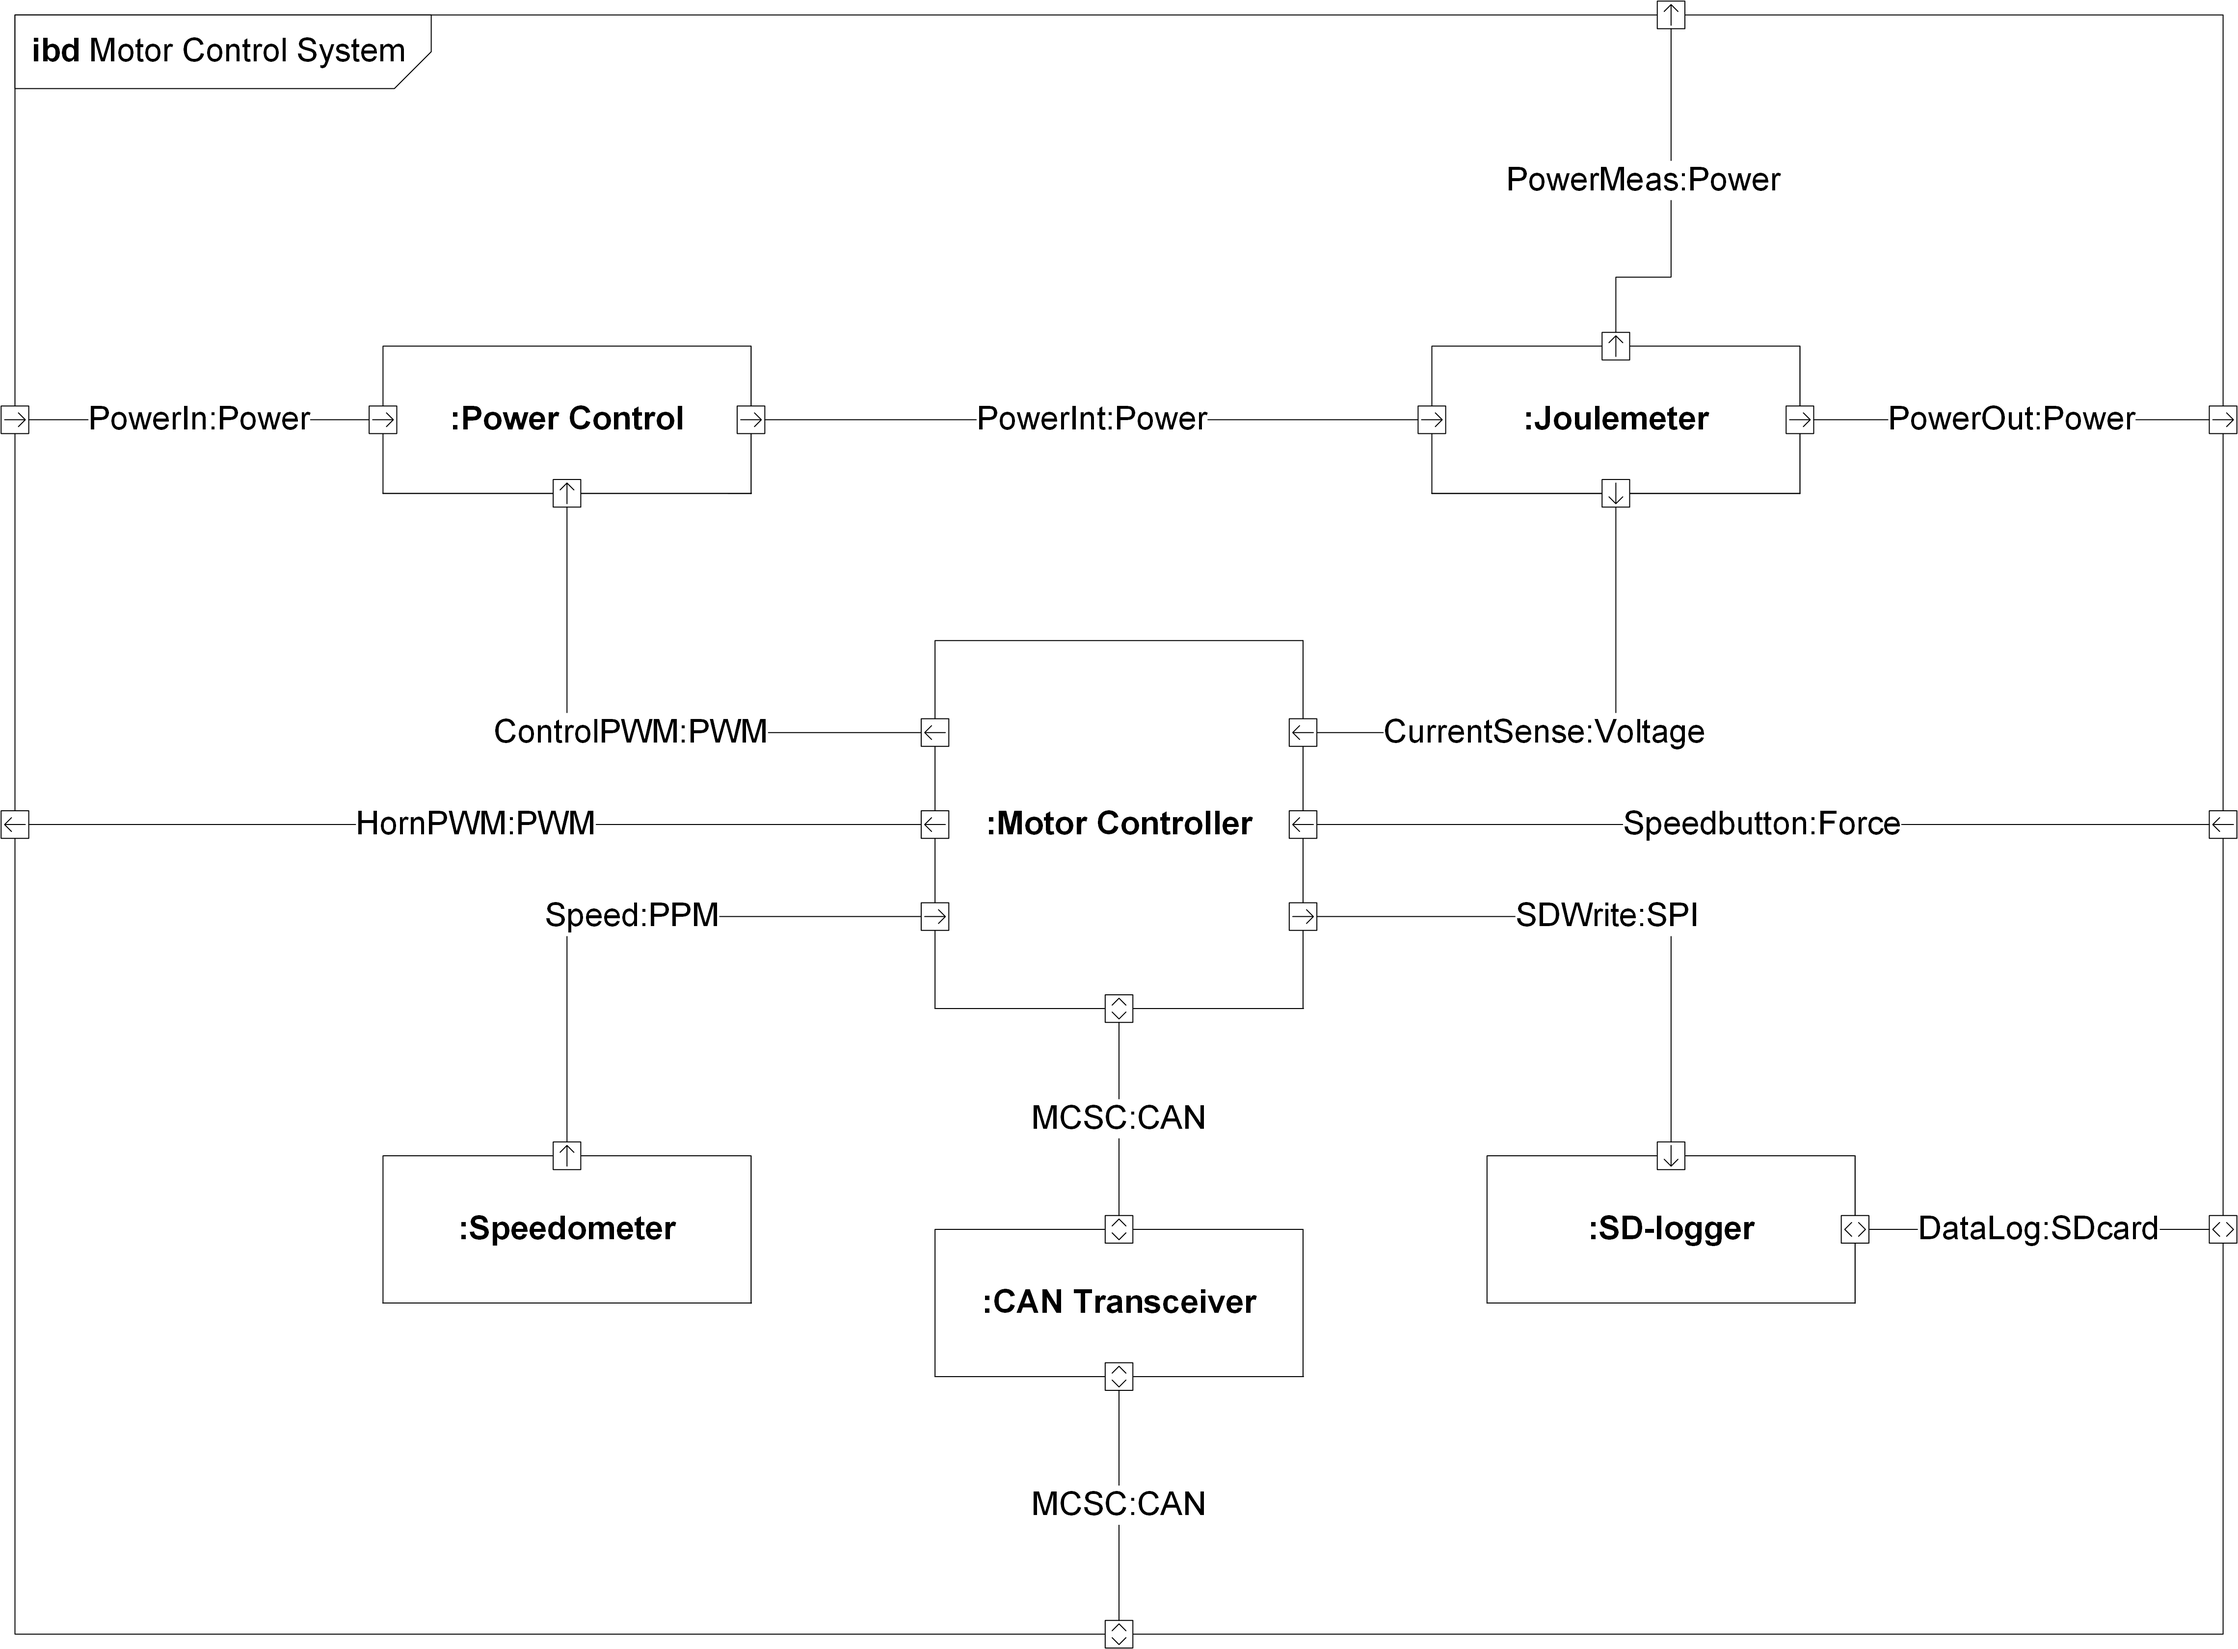
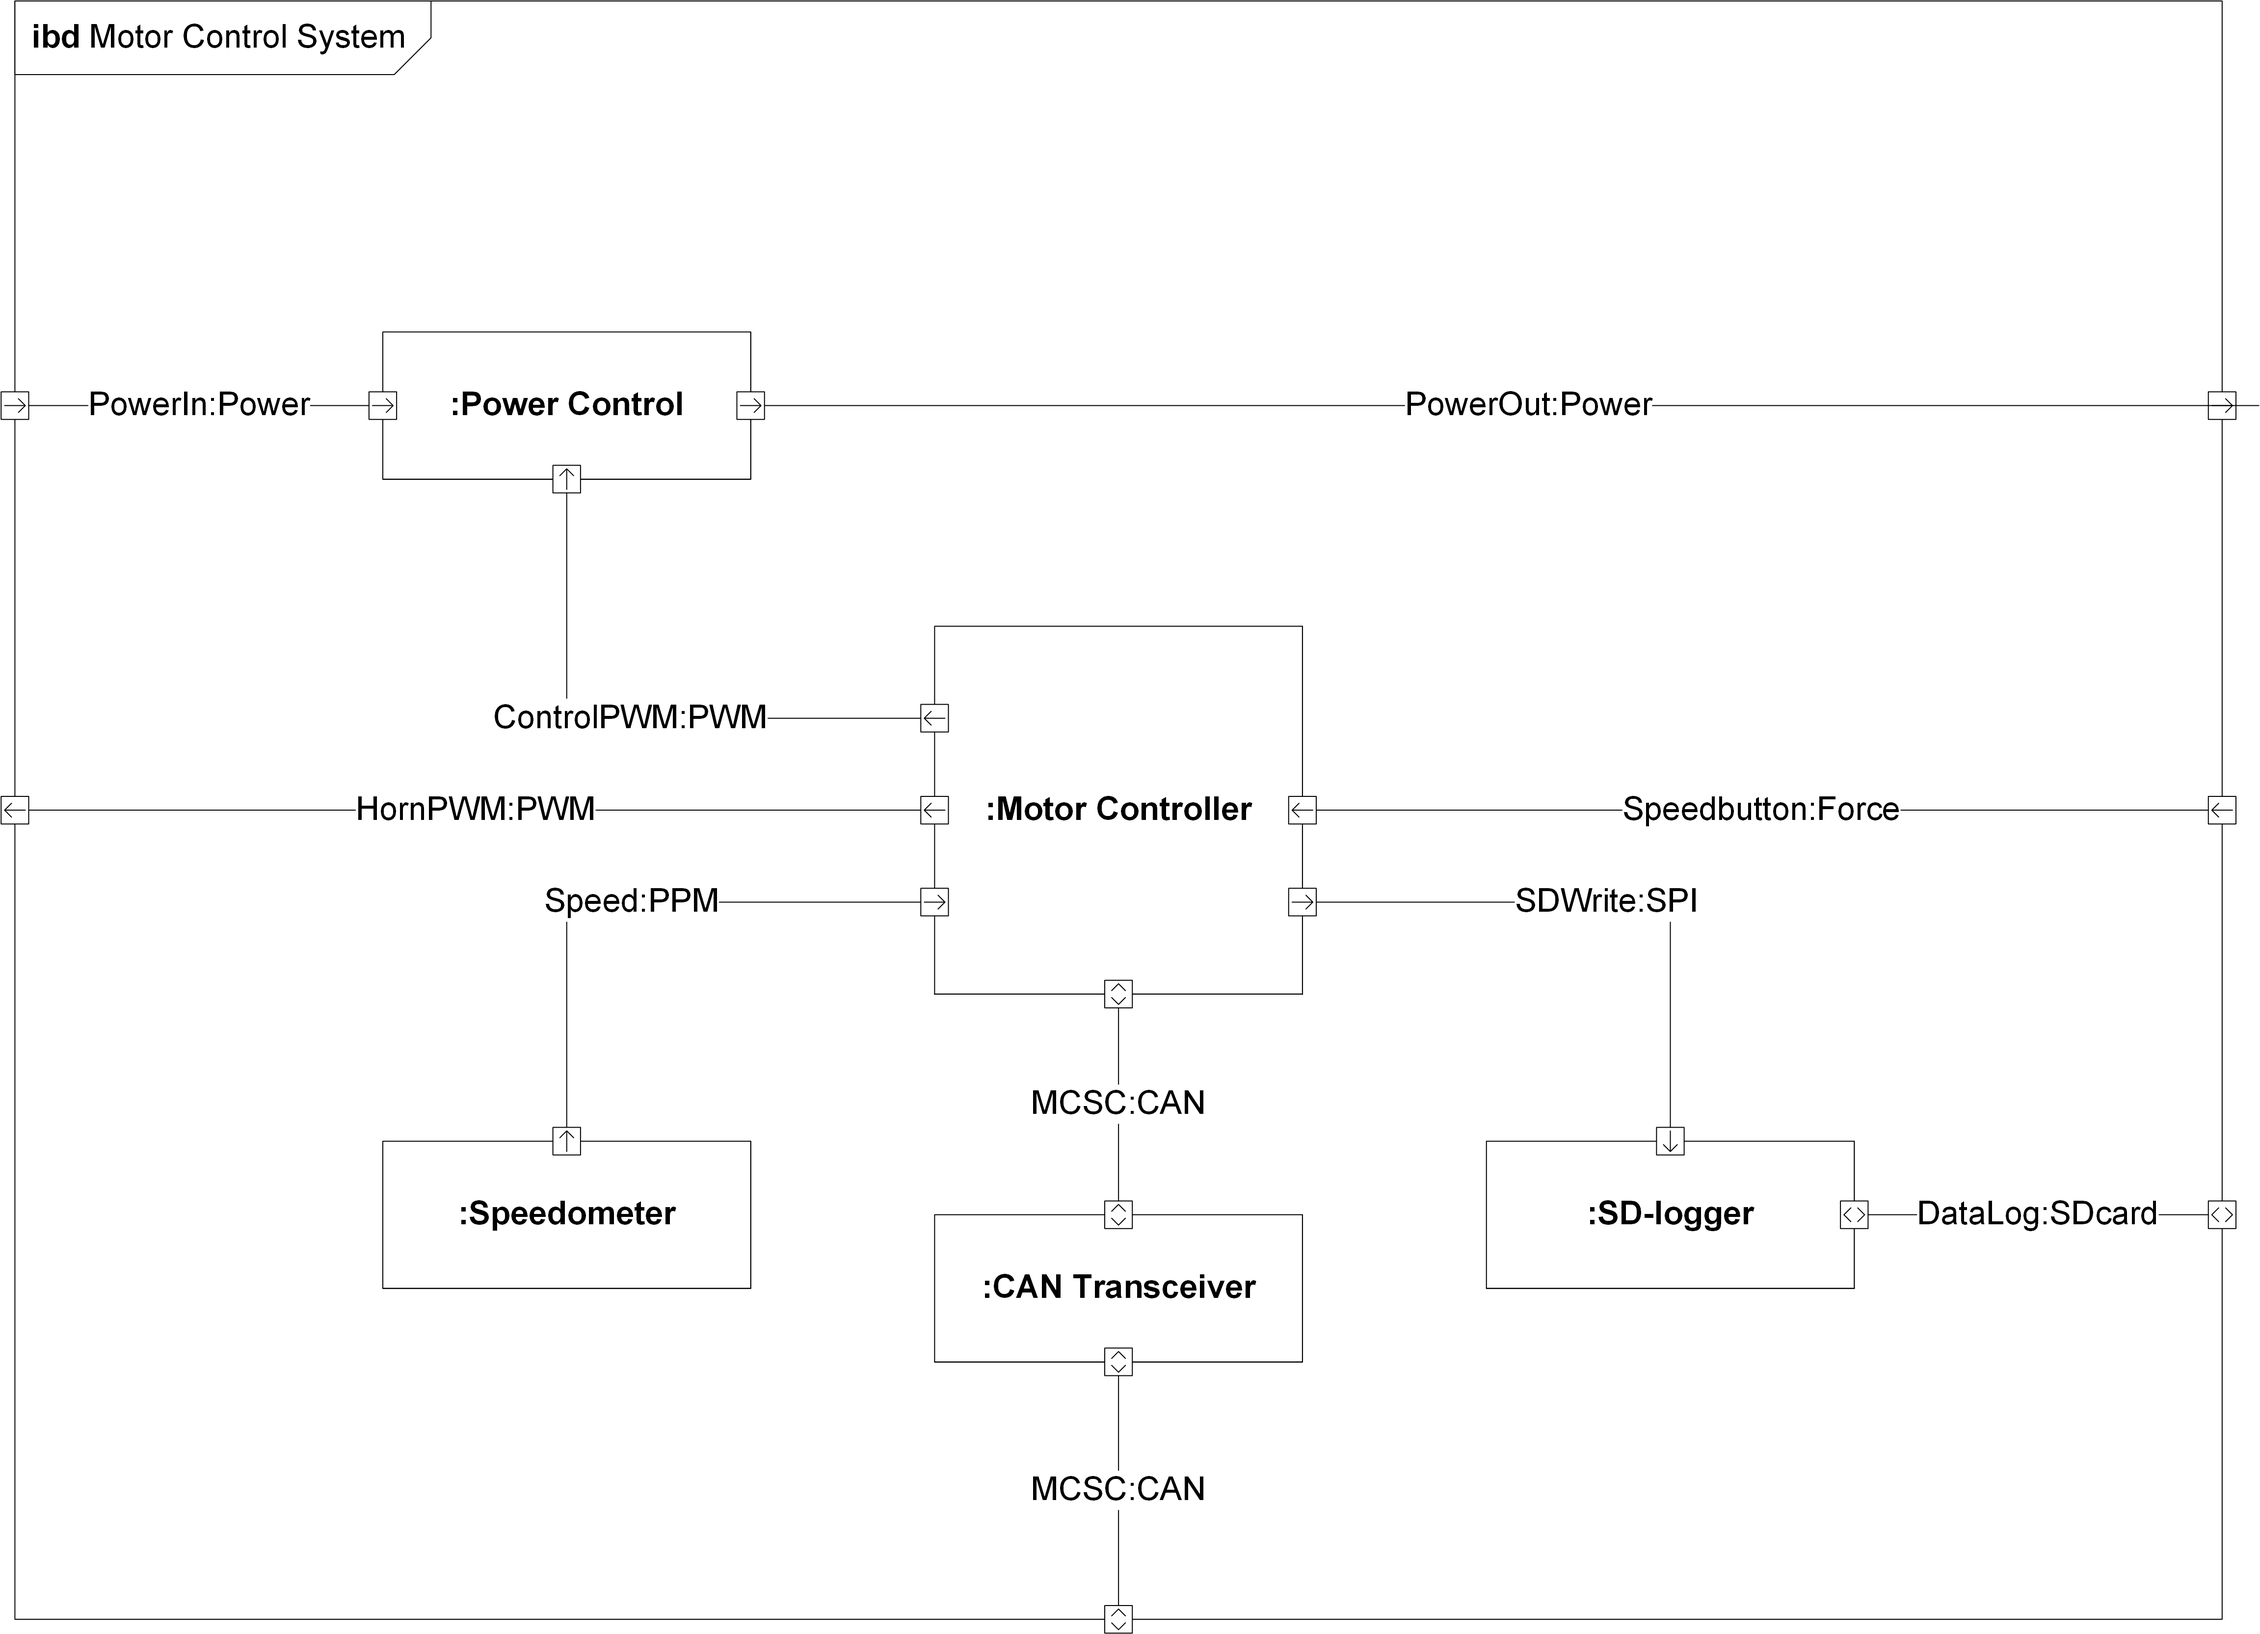
Signal Description MCS

diff --git a/Latex/Documentation_AU2/Architecture/IBD_AU2_MCS.tex b/Latex/Documentation_AU2/Architecture/IBD_AU2_MCS.tex
@@ -1,6 +1,6 @@
 \section{Internal Block Diagram - MCS}
 As with the Battery Management System, the Motor Control System (MCS) is too complex to be represented propely on a IBD along with the rest of the systems. The complexity has instead been visualized on a seperate Internal Block Diagram. The result is seen below.
-\fxnote{Opdater med HornOn + signalbeskrivelse - JOnathan}
+
 \begin{figure}[H]
 	\centering
 	\includegraphics[width=1\linewidth]{Architecture/Diagrams/IBD_MCS}
@@ -20,20 +20,23 @@ Block interface description:
 	Direction: [External] $\rightarrow$ [Every Block]\\
 	Description: Power supply to the systems.
 	\item \textbf{HornPWM:PWM}\\
-	Direction: [x] $\rightarrow$ [y]\\
-	Description:
+	Direction: [Motor Controller] $\rightarrow$ [External]\\
+	Description: Sends out a square wave signal to supply the loudspeaker with an input.
 	\item \textbf{PowerIn:Power}\\
-	Direction: [x] $\rightarrow$ [y]\\
-	Description:
-	\item \textbf{PowerMeas:Power}\\
-	Direction: [x] $\rightarrow$ [y]\\
-	Description:
+	Direction: [External] $\rightarrow$ [Power Control]\\
+	Description: Power coming from the batteries to supply the motor.
 	\item \textbf{PowerOut:Power}\\
-	Direction: [x] $\rightarrow$ [y]\\
-	Description:
+	Direction: [Power Control] $\rightarrow$ [External]\\
+	Description: Power to supply the motor.
 	\item \textbf{MCSC:CAN}\\
-	Direction: [x] $\rightarrow$ [y]\\
-	Description:
+	Direction: [CAN Transceiver] $\rightarrow$ [External]\\
+	Description: CAN connection to receive variables from BMS and to send to computer.
+	\item \textbf{Speedbutton:Force}\\
+	Direction: [External] $\rightarrow$ [Motor Controller]\\
+	Description: Button to control the driving algorithm.
+	\item \textbf{DataLog:SDcard}\\
+	Direction: [SD-logger] $\leftrightarrow$ [External]\\
+	Description: Button to control the driving algorithm.
 \end{itemize}
 
 \textbf{Block :Power Control}\\
@@ -42,21 +45,17 @@ Block interface description:
 	\item \textbf{SupplyMCS:Voltage}\\
 	Direction: [External] $\rightarrow$ [Power Control]\\
 	Description: Power supply to the block.
-	\item \textbf{}\\
-	Direction: [x] $\rightarrow$ [y]\\
-	Description:
+	\item \textbf{PowerIn:Power}\\
+	Direction: [External] $\rightarrow$ [Power Control]\\
+	Description: Power coming from the batteries to supply the motor.
+	\item \textbf{ControlPWM:PWM}\\
+	Direction: [Motor Controller] $\rightarrow$ [Power Control]\\
+	Description: Signal from motor controller, decided by  coast and burn principle. 
+	\item \textbf{PowerOut:Power}\\
+	Direction: [Power Control] $\rightarrow$ [External]\\
+	Description: Power to supply the motor.
 \end{itemize}
 
-\textbf{Block :Joulemeter}\\
-Block interface description:
-\begin{itemize}
-	\item \textbf{SupplyMCS:Voltage}\\
-	Direction: [External] $\rightarrow$ [Joulemeter]\\
-	Description: Power supply to the block.
-	\item \textbf{}\\
-	Direction: [x] $\rightarrow$ [y]\\
-	Description:
-\end{itemize}
 
 \textbf{Block :Motor Controller}\\
 Block interface description:
@@ -64,9 +63,24 @@ Block interface description:
 	\item \textbf{SupplyMCS:Voltage}\\
 	Direction: [External] $\rightarrow$ [Motor Controller]\\
 	Description: Power supply to the block.
-	\item \textbf{}\\
-	Direction: [x] $\rightarrow$ [y]\\
-	Description:
+	\item \textbf{ControlPWM:PWM}\\
+	Direction: [Motor controller] $\rightarrow$ [Power Control]\\
+	Description: Signal from motor controller, decided by  coast and burn principle. 
+	\item \textbf{HornPWM:PWM}\\
+	Direction: [Motor controller] $\rightarrow$ [External]\\
+	Description: Sends out a square wave signal to supply the loudspeaker with an input.
+	\item \textbf{SDwrite:SPI}\\
+	Direction: [Motor controller] $\rightarrow$ [SD-logger]\\
+	Description: Information being written to SD card.
+	\item \textbf{Speed:RPM}\\
+	Direction: [Speedometer] $\rightarrow$ [Motor controller]\\
+	Description: Square wave signal with a frequency corresponding to RPM.
+	\item \textbf{Speedbutton:Force}\\
+	Direction: [External] $\rightarrow$ [Motor controller]\\
+	Description: Button to control the driving algorithm.
+	\item \textbf{MCSC:CAN}\\
+	Direction: [Motor Controller] $\leftrightarrow$ [CAN Tranceiver]\\
+	Description: Tx/Rx signal to be converted to CAN or vice/versa.
 \end{itemize}
 
 \textbf{Block :Speedometer}\\
@@ -75,9 +89,9 @@ Block interface description:
 	\item \textbf{SupplyMCS:Voltage}\\
 	Direction: [External] $\rightarrow$ [Speedometer]\\
 	Description: Power supply to the block.
-	\item \textbf{}\\
-	Direction: [x] $\rightarrow$ [y]\\
-	Description:
+	\item \textbf{Speed:RPM}\\
+	Direction: [Speedometer] $\rightarrow$ [Motor Controller]\\
+	Description: Square wave signal with a frequency corresponding to RPM.
 \end{itemize}
 
 \textbf{Block :CAN Tranceiver}\\
@@ -86,12 +100,12 @@ Block interface description:
 	\item \textbf{SupplyMCS:Voltage}\\
 	Direction: [External] $\rightarrow$ [CAN Tranceiver]\\
 	Description: Power supply to the block.
-	\item \textbf{µCan:}\\
+	\item \textbf{MCSC:CAN}\\
 	Direction: [Motor Controller] $\leftrightarrow$ [Can Tranceiver]\\
-	Description:
+	Description: Tx/Rx signal to be converted to CAN or vice/versa.
 	\item \textbf{MCSC:CAN}\\
 	Direction: [Can Tranceiver] $\leftrightarrow$ [External]\\
-	Description:
+	Description: CAN signal to be sent or received.
 \end{itemize}
 
 \textbf{Block :SD-logger}\\
@@ -100,4 +114,10 @@ Block interface description:
 	\item \textbf{SupplyMCS:Voltage}\\
 	Direction: [External] $\rightarrow$ [SD-logger]\\
 	Description: Power supply to the block.
+	\item \textbf{SDWrite:SPI}\\
+	Direction: [Motor controller] $\rightarrow$ [SD-logger]\\
+	Description: Information being written to SD card.
+	\item \textbf{DataLog:SDcard}\\
+	Direction: [SD-logger ] $\leftrightarrow$ [External]\\
+	Description: SD card can be disconnected from circuit in order to read information on PC.
 \end{itemize}

diff --git a/Latex/Documentation_AU2/Architecture/BDD_AU2.tex b/Latex/Documentation_AU2/Architecture/BDD_AU2.tex
@@ -1,10 +1,6 @@
 \section{Block Definition Diagram}
 The BDD on \ref{fig:BDD} gives a general overview of which components make up the system. The system contains two large subsystems: Battery Management System (BMS) and Motor Control System (MCS). These blocks are described in greater details in later sections.
 
-\fxnote{Analog unit til analog front end - JOnathan}
-\fxnote{Signal mellem BMS og MCS - JOnathan}
-\fxnote{Battery skal ud i en kasse for sig selv - JOnathan}
-
 \begin{figure}[H]
 	\centering
 	\includegraphics[width=1\linewidth]{Architecture/Diagrams/BDD_AU2}
